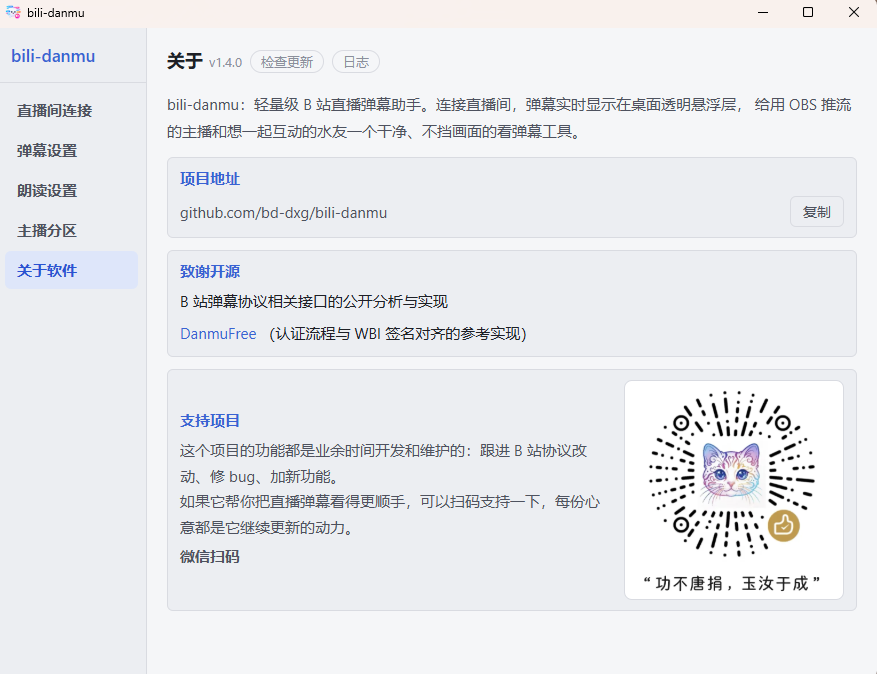
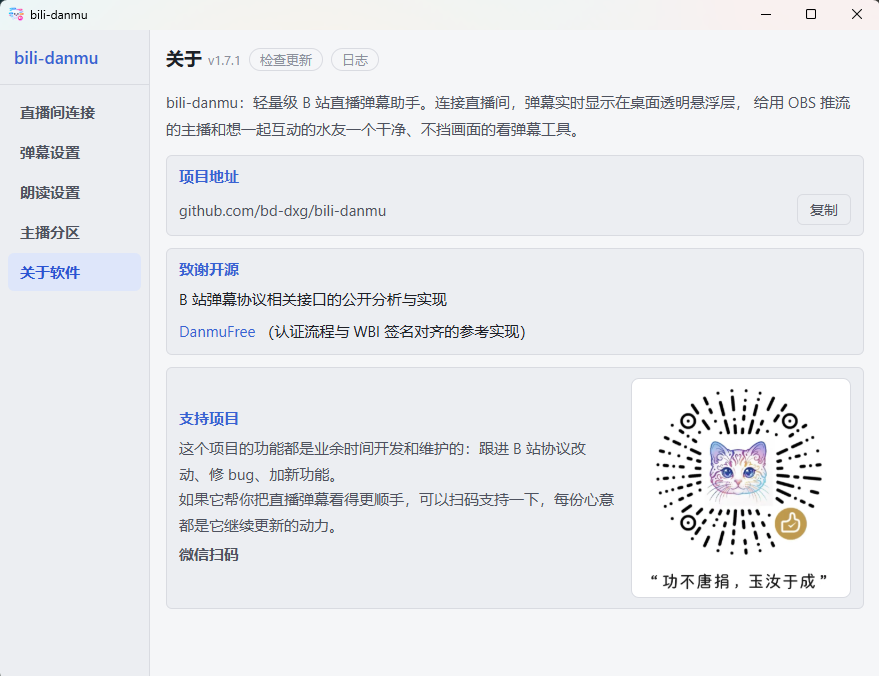
📝 更新两款落地页至 bili-danmu v1.7.1 与 douyin-danmu v0.3.0 - bili-danmu 更新板块换成 v1.7.1：自动更新接上（下载 → 验签 → 静默安装 → 自动重启），更新提示从「关于」页挪到侧边栏小红点、检查频率改为启动一次加每 6 小时一次、发现新版就后台预下载 - bili-danmu 附带项补三条：后台预下载让点击后只剩安装与重启、签名里绑定的版本须与更新清单一致以防旧包降级、从 v1.6.0 升上来要手动装这一次 - douyin-danmu 更新板块换成 v0.3.0：同样接上 tauri-plugin-updater 自动更新，胶囊

diff --git a/.vitepress/theme/data/bili-danmu.ts b/.vitepress/theme/data/bili-danmu.ts
@@ -1,15 +1,15 @@
 // bili-danmu 落地页文案。区块组件只负责渲染，文案集中在这里。
-import { iconAtMention, iconBox, iconChip, iconFollowList, iconMinusCircle, iconRefresh } from './icons'
+import { iconBell, iconBox, iconChip, iconDownload, iconMinusCircle, iconRefresh } from './icons'
 
 const REPO_URL = 'https://github.com/bd-dxg/bili-danmu'
 
 // 发版只需改这一行：版本号、下载文件名、代理地址都跟着它走
-const VERSION = '1.6.0'
+const VERSION = '1.7.1'
 // 国内直连加速：v4.gh-proxy.org 代理 GitHub 下载，原链接直接拼在后面
 const DOWNLOAD_URL = `https://v4.gh-proxy.org/${REPO_URL}/releases/download/v${VERSION}/bili-danmu_${VERSION}_x64-setup.exe`
 
 export const stats = [
-  { value: '3.0', unit: 'MB', label: '安装包体积' },
+  { value: '3.2', unit: 'MB', label: '安装包体积' },
   { value: '12', unit: 'MB', label: '装完占用硬盘' },
   { value: '14', unit: '种', label: '中文朗读音色' },
   { value: '0', unit: '条', label: '信息收集与日志上传' },
@@ -23,7 +23,7 @@ export const highlights = {
     {
       icon: iconBox,
       title: '小到离谱',
-      body: '安装包 3.0 MB，装完占硬盘 12 MB。不用额外装浏览器组件（Windows 自带）、不用装 Python、不用下载语音模型，双击下一步就能用。',
+      body: '安装包 3.2 MB，装完占硬盘 12 MB。不用额外装浏览器组件（Windows 自带）、不用装 Python、不用下载语音模型，双击下一步就能用。',
     },
     {
       icon: iconChip,
@@ -107,31 +107,35 @@ export const showcase = {
   },
 }
 
-// 本次更新（v1.6.0）：@提及的人不再丢，「关注在播」首位固定成自己的直播间
+// 本次更新（v1.7.1）：自动更新接上了，更新提示也挪到看得见的地方
 export const update = {
   badge: `v${VERSION}`,
   title: '这次更新了什么',
-  lead: '一句话：被 @ 的人不再是一件没头没尾的话，弹幕里能看出是谁对谁说的；「关注在播」首位固定你自己的直播间，开播前也能先连上。',
+  lead: '一句话：以后有新版本，点一下按钮就自己下载、验签、装好并重启，不用再回 GitHub 手动下；顺带把更新提示挪到了打开就能看见的地方。',
   changes: [
     {
-      icon: iconAtMention,
-      title: '@提及不再丢名字',
-      body: '别人 @ 某人时，B 站把被 @ 的名字单独放在报文里、正文里反而没有，以前只能看到一句没头没尾的话。现在弹幕窗显示成「@名字 正文」，名字用弹幕用户名同一种颜色，一眼看出是谁对谁说的。',
+      icon: iconDownload,
+      title: '点一下就把新版装好',
+      body: '「关于」页的按钮现在一条龙：自动下载 → 校验签名 → 静默安装 → 自己重启，不用再回 GitHub 手动下载、手动装。不想走自动流程时，旁边还有「手动下」按钮直接下安装包。',
     },
     {
-      icon: iconFollowList,
-      title: '「我的直播间」固定排第一位',
-      body: '「关注在播」那一行的首位固定是你自己的直播间，点一下直接连上，不看开播状态 —— 开播前也能先把助手连对房间。未登录、没有直播间、查询失败时这一条不出现，不影响后面的关注列表。',
+      icon: iconBell,
+      title: '更新提示挪到看得见的地方',
+      body: '以前提示只在「关于」页里，而主窗口默认停在「直播间连接」—— 挂着推流的人根本不会点进去。现在侧边栏「关于软件」有新版本时亮一个小红点，一打开就看见；检查频率也从「只在启动时查一次」改成「启动查一次 + 之后每 6 小时一次」，连续开播几天不重启也不会漏。',
     },
   ],
   also: [
     {
-      title: '朗读里也说得清是谁对谁',
-      body: '被 @ 的弹幕念成「发送者对被提及者说 正文」，不看「念用户名」开关也知道是谁跟谁说话；只 @ 人不说话的那种（正文为空）整条跳过，不念。',
+      title: '发现新版本就在后台静默下好安装包',
+      body: '点更新时只剩「安装 → 重启」，几秒完成，不用盯着进度条。',
     },
     {
-      title: '这次没动别的',
-      body: '连接、弹幕窗、朗读、筛选都没改，从 v1.5.0 升上来就是上面这两处新增。',
+      title: '更严格的更新校验',
+      body: '下载的安装包除了要验签名，现在还要求签名里绑定的版本与更新清单声明的版本一致。把「新版本号 + 旧安装包」拼在一起也装不上，不会被诱导退回旧版本。',
+    },
+    {
+      title: '从 v1.6.0 升上来要手动装这一次',
+      body: '自动更新要这一版装好之后才生效，下载本页安装包覆盖安装即可，以后的新版本就能一键更新了。',
     },
   ],
 }
@@ -158,7 +162,7 @@ export const features = {
     },
     { title: '数据不外流', desc: '配置存在本机，不收集任何信息、不上传日志。' },
   ],
-  todo: '还没做：滚动弹幕、顶弹、用户屏蔽、Windows 系统 TTS、开机自启、全局快捷键、自动更新。',
+  todo: '还没做：滚动弹幕、顶弹、用户屏蔽、Windows 系统 TTS、开机自启、全局快捷键。',
 }
 
 // 「和官方客户端比」区块：只列差异项，不贬低官方，末尾用脚注把话说圆
@@ -187,7 +191,7 @@ export const compare = {
     {
       title: '体积与占用',
       official: '整套客户端功能很全，安装包和运行时占用也相应更大。',
-      ours: '安装包 3.0 MB，装完占硬盘 12 MB，长时间挂着占用不越涨越多。',
+      ours: '安装包 3.2 MB，装完占硬盘 12 MB，长时间挂着占用不越涨越多。',
     },
   ],
   footnote: '这里只列差异项。官方客户端在礼物特效、粉丝互动这些场景上更完整，两者不冲突，可以同时用。',
@@ -216,7 +220,7 @@ export const download = {
   eyebrow: '下载',
   title: `下载 bili-danmu v${VERSION}`,
   platform: 'Windows 10 / 11（x64）',
-  size: '3.0 MB',
+  size: '3.2 MB',
   note: '双击安装，不需要额外运行环境',
   steps: [
     '下载安装包，双击装好',

diff --git a/.vitepress/theme/data/douyin-danmu.ts b/.vitepress/theme/data/douyin-danmu.ts
@@ -1,22 +1,22 @@
 // douyin-danmu 落地页文案。区块组件只负责渲染，文案集中在这里。
 import {
+  iconBell,
   iconBox,
   iconChip,
-  iconFollowList,
+  iconDownload,
   iconMinusCircle,
   iconRefresh,
-  iconTextInput,
 } from './icons'
 
 const REPO_URL = 'https://github.com/bd-dxg/douyin-danmu'
 
 // 发版只需改这一行：版本号、下载文件名、代理地址都跟着它走
-const VERSION = '0.2.1'
+const VERSION = '0.3.0'
 // 国内直连加速：v4.gh-proxy.org 代理 GitHub 下载，原链接直接拼在后面
 const DOWNLOAD_URL = `https://v4.gh-proxy.org/${REPO_URL}/releases/download/v${VERSION}/douyin-danmu_${VERSION}_x64-setup.exe`
 
 export const stats = [
-  { value: '3.3', unit: 'MB', label: '安装包体积' },
+  { value: '3.5', unit: 'MB', label: '安装包体积' },
   { value: '120', unit: '条', label: '弹幕最多保留' },
   { value: '14', unit: '种', label: '中文朗读音色' },
   { value: '0', unit: '条', label: '信息收集与日志上传' },
@@ -30,7 +30,7 @@ export const highlights = {
     {
       icon: iconBox,
       title: '小到离谱',
-      body: '安装包 3.3 MB（0.2.1 实测）。不用额外装浏览器组件（Windows 自带 WebView2）、不用装 Python、不用下载语音模型，双击下一步就能用。',
+      body: '安装包 3.5 MB（0.3.0 实测）。不用额外装浏览器组件（Windows 自带 WebView2）、不用装 Python、不用下载语音模型，双击下一步就能用。',
     },
     {
       icon: iconChip,
@@ -114,31 +114,36 @@ export const showcase = {
   },
 }
 
-// 本次更新（v0.2.1）：「我的直播间」固定排在关注列表第一位；直播间号也认抖音号和整条链接
+// 本次更新（v0.3.0）：接上自动更新，以后新版点一下自己装好
+// 注：本版是最后一个需要手动下载的版本
 export const update = {
   badge: `v${VERSION}`,
   title: '这次更新了什么',
-  lead: '一句话：关注列表顶上多了「我的直播间」，开播前也能先把助手连上；房间号输入框现在认抖音号，粘一整条链接也能识别。',
+  lead: '一句话：以后有新版本，点一下按钮就自己下载、验签、装好并重启，不用再回 GitHub 手动下。这一版是最后一个需要手动装的版本。',
   changes: [
     {
-      icon: iconFollowList,
-      title: '「我的直播间」固定排第一位',
-      body: '「关注在播」列表第一位固定是你自己的直播间，点一下就连回自己房间 —— 开播前也能先把助手连上，不用等有人说话才知道连没连对。',
+      icon: iconDownload,
+      title: '点一下就把新版装好',
+      body: '「关于」页的胶囊按钮承载完整流程：检查更新 → 检查中… → 发现新版本 → 下载 x% → 安装中… → 已是最新 / 重试，装完自己重启。另有「手动下」按钮直接下载安装包。',
     },
     {
-      icon: iconTextInput,
-      title: '直播间号现在也认抖音号',
-      body: '输入框数字、字母都收，像 88866kzi 这样的抖音号直接填；从浏览器地址栏粘一整条直播间链接也能自动认出房间号。',
+      icon: iconBell,
+      title: '更新提示挪到看得见的地方',
+      body: '关于页得主动点进去，主播平时根本看不到。现在侧边栏「关于软件」有新版时亮一个小红点，一打开就看见；检查频率从「只在启动时查一次」改成「启动 5 秒后查一次 + 之后每 6 小时一次」，连续开播几天不重启也不会漏。',
     },
   ],
   also: [
     {
-      title: '「我的直播间」不看开播状态',
-      body: '从没开过播、房间还不存在的账号，点它会提示「没有解析出房间号…」，这是正常的，不是 bug。',
+      title: '发现新版本就在后台静默下好安装包',
+      body: '点按钮时只剩「安装 → 重启」，秒级完成，不用盯着进度条。',
     },
     {
-      title: '抖音号里带下划线的账号暂不支持',
-      body: '这类账号暂时识别不出来，还是用直播间号连接。',
+      title: '签名校验 + 防降级',
+      body: '服务端公钥验签，验不过拒绝安装；签名里绑定的版本还必须与更新清单声明的版本一致，挡住「新版本号配旧发布包」的篡改。',
+    },
+    {
+      title: '旧的「版本更新提醒」已被取代',
+      body: '之前启动查 GitHub Releases、跳浏览器下载那一套已经去掉了，现在全在应用里完成。',
     },
   ],
 }
@@ -159,7 +164,7 @@ export const features = {
     },
     { title: '其他', desc: '最近房间一键直连 / 关注在播、系统托盘常驻、运行状态一览、统一日志。' },
   ],
-  todo: '还没做：发送弹幕、滚动弹幕、顶弹、用户屏蔽、Windows 系统 TTS、开机自启、全局快捷键、自动更新。',
+  todo: '还没做：发送弹幕、滚动弹幕、顶弹、用户屏蔽、Windows 系统 TTS、开机自启、全局快捷键。',
 }
 
 export const privacy = {
@@ -185,7 +190,7 @@ export const download = {
   eyebrow: '下载',
   title: `下载 douyin-danmu v${VERSION}`,
   platform: 'Windows 10 / 11（x64）',
-  size: '3.3 MB',
+  size: '3.5 MB',
   note: '双击安装，不需要额外运行环境',
   steps: [
     '下载安装包，双击装好（首次运行如提示缺少 WebView2，Win10 装一下即可，Win11 自带）',

diff --git a/.vitepress/theme/data/icons.ts b/.vitepress/theme/data/icons.ts
@@ -5,7 +5,6 @@ export const iconChip =
   '<rect x="7.5" y="7.5" width="9" height="9" rx="2"/><path d="M10 3.5V7M14 3.5V7M10 17v3.5M14 17v3.5M3.5 10H7M3.5 14H7M17 10h3.5M17 14h3.5"/>'
 export const iconMinusCircle = '<circle cx="12" cy="12" r="8.5"/><path d="M8.5 12h7"/>'
 export const iconRefresh = '<path d="M20.5 12a8.5 8.5 0 1 1-2.5-6"/><path d="M20.5 3.5V9H15"/>'
-export const iconFollowList =
-  '<circle cx="7.5" cy="8" r="3"/><path d="M2.5 19.5c0-2.8 2.2-4.8 5-4.8s5 2 5 4.8"/><path d="M14.5 7h7M14.5 11.5h7M14.5 16h7"/>'
-export const iconTextInput = '<rect x="3" y="6.5" width="18" height="11" rx="2.5"/><path d="M6.5 12h7M17.5 10v4"/>'
-export const iconAtMention = '<circle cx="12" cy="12" r="4"/><path d="M16 8v5a3 3 0 0 0 6 0v-1a10 10 0 1 0-4 8"/>'
+export const iconDownload = '<path d="M12 4v11"/><path d="M8 11.5 12 15.5l4-4"/><path d="M5 19h14"/>'
+export const iconBell =
+  '<path d="M18 8.5a6 6 0 1 0-12 0c0 4.5-2 5.5-2 5.5h16s-2-1-2-5.5Z"/><path d="M10 18a2 2 0 0 0 4 0"/>'

diff --git a/.vitepress/theme/components/LandingProducts.vue b/.vitepress/theme/components/LandingProducts.vue
@@ -11,7 +11,7 @@ const products = [
     icon: '/imgs/bili-danmu/app-icon.webp',
     tagline: 'B 站直播弹幕助手',
     desc: '透明悬浮窗叠在游戏画面上，不挡游戏不拦鼠标；14 个中文音色把弹幕念出来；断线自己重连。',
-    tags: ['3.0 MB', 'v1.6.0', '弹幕朗读', '能发弹幕'],
+    tags: ['3.2 MB', 'v1.7.1', '弹幕朗读', '能发弹幕'],
     href: '/bili-danmu',
     releaseUrl: biliDownload.downloadUrl,
   },
@@ -20,7 +20,7 @@ const products = [
     icon: '/imgs/douyin-danmu/app-icon.png',
     tagline: '抖音直播弹幕助手',
     desc: '给用 OBS 推流的主播：桌面看弹幕 + Edge TTS 朗读，鼠标穿透不挡游戏；不登录也能收弹幕、进场、关注、点赞。',
-    tags: ['3.3 MB', 'v0.2.1', '弹幕朗读', '只读弹幕'],
+    tags: ['3.5 MB', 'v0.3.0', '弹幕朗读', '只读弹幕'],
     href: '/douyin-danmu',
     releaseUrl: douyinDownload.downloadUrl,
   },

diff --git a/docs/douyin-danmu.md b/docs/douyin-danmu.md
@@ -7,14 +7,14 @@ markdownStyles: false
 hero:
   name: douyin-danmu
   text: 抖音主播——<br>桌面弹幕助手
-  tagline: 3.3 MB 装完就能用。透明悬浮窗挂在桌面上看弹幕，鼠标穿透直接点到游戏上，弹幕还能用 Edge TTS 念出来。
+  tagline: 3.5 MB 装完就能用。透明悬浮窗挂在桌面上看弹幕，鼠标穿透直接点到游戏上，弹幕还能用 Edge TTS 念出来。
   image:
     src: /imgs/douyin-danmu/app-icon.png
     alt: douyin-danmu 图标
   actions:
     - theme: brand
       text: 下载安装包
-      link: https://v4.gh-proxy.org/https://github.com/bd-dxg/douyin-danmu/releases/download/v0.2.1/douyin-danmu_0.2.1_x64-setup.exe
+      link: https://v4.gh-proxy.org/https://github.com/bd-dxg/douyin-danmu/releases/download/v0.3.0/douyin-danmu_0.3.0_x64-setup.exe
     - theme: alt
       text: 蓝奏下载密码:6u67
       link: https://wwbor.lanzouu.com/b03fmf2u0j

diff --git a/docs/bili-danmu.md b/docs/bili-danmu.md
@@ -7,14 +7,14 @@ markdownStyles: false
 hero:
   name: bili-danmu
   text: 不跟游戏抢资源的弹幕助手
-  tagline: 3.0 MB 装完就能用。透明悬浮窗叠在游戏画面上，鼠标穿透不拦点击，弹幕还能念出来。
+  tagline: 3.2 MB 装完就能用。透明悬浮窗叠在游戏画面上，鼠标穿透不拦点击，弹幕还能念出来。
   image:
     src: /imgs/bili-danmu/app-icon.webp
     alt: bili-danmu 图标
   actions:
     - theme: brand
       text: 下载安装包
-      link: https://v4.gh-proxy.org/https://github.com/bd-dxg/bili-danmu/releases/download/v1.6.0/bili-danmu_1.6.0_x64-setup.exe
+      link: https://v4.gh-proxy.org/https://github.com/bd-dxg/bili-danmu/releases/download/v1.7.1/bili-danmu_1.7.1_x64-setup.exe
     - theme: alt
       text: 蓝奏下载密码:6u67
       link: https://wwbor.lanzouu.com/b03fmf2u0j
